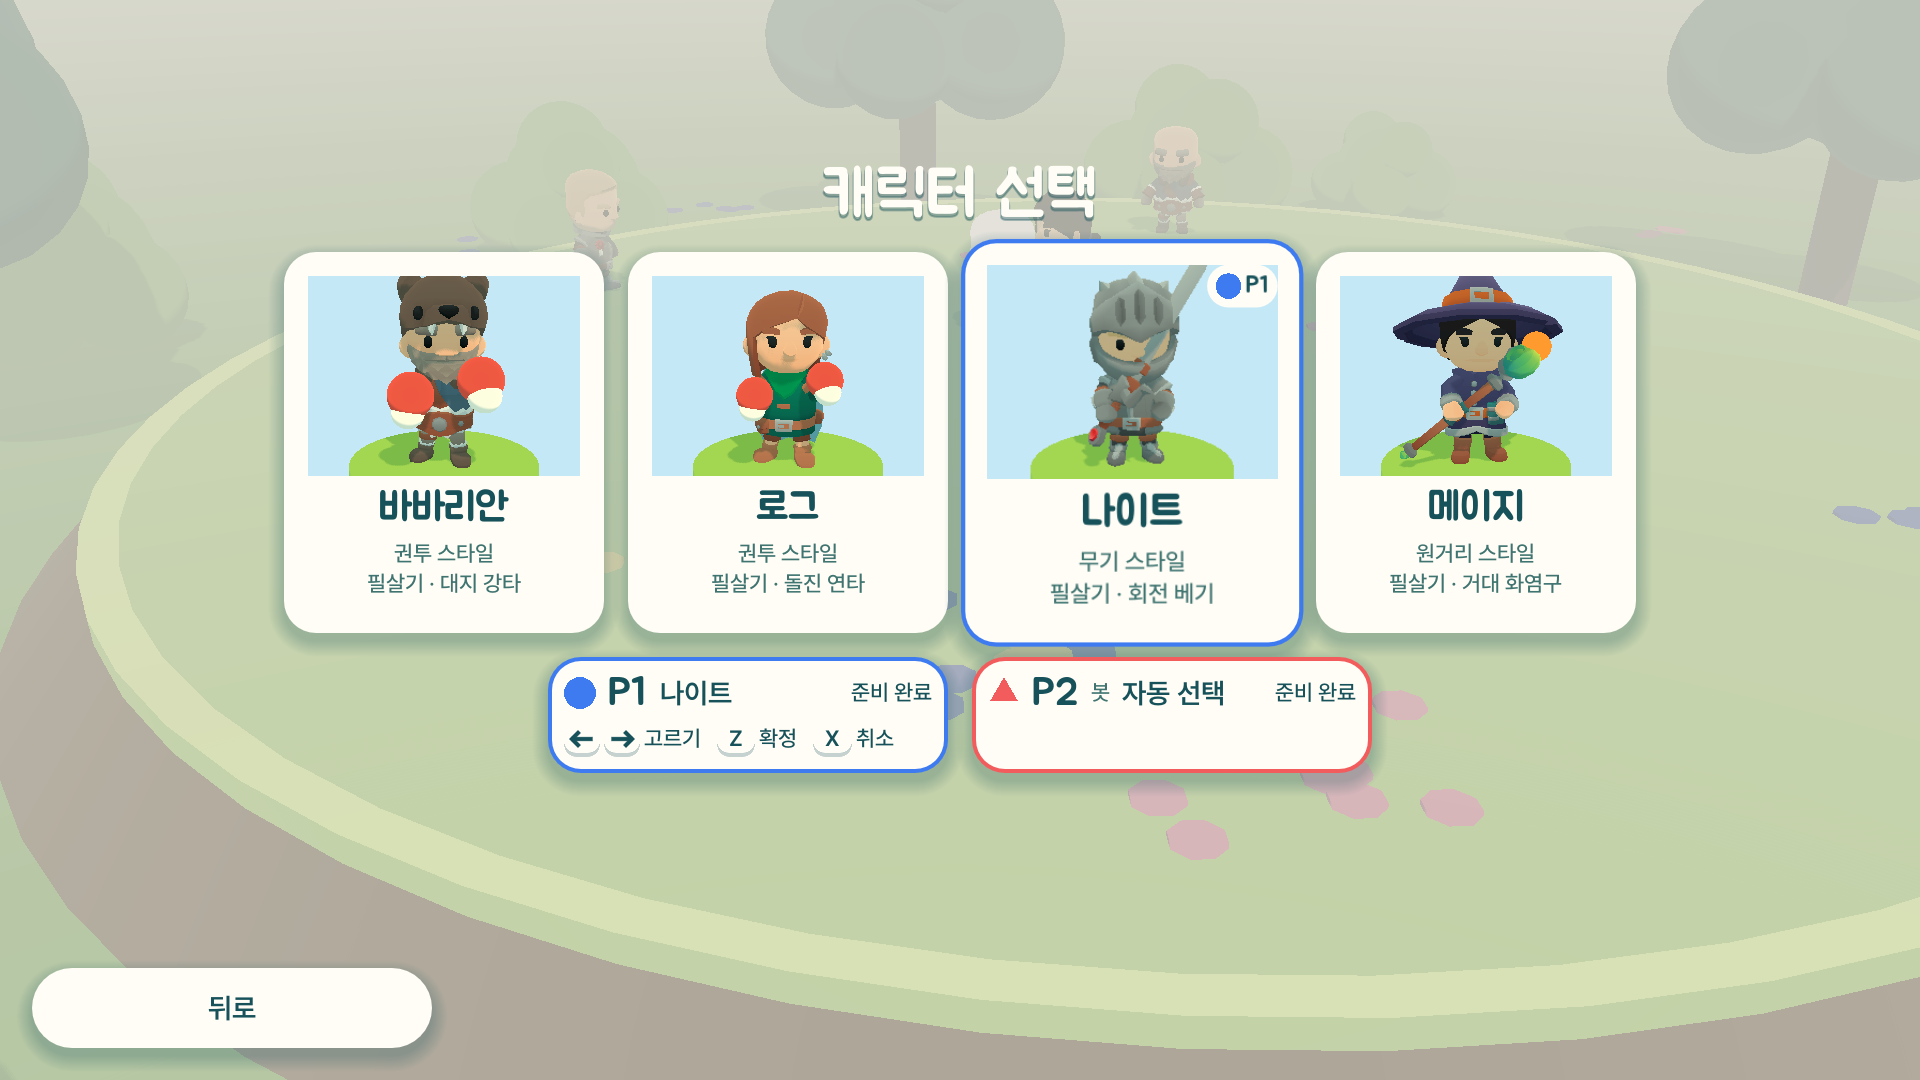
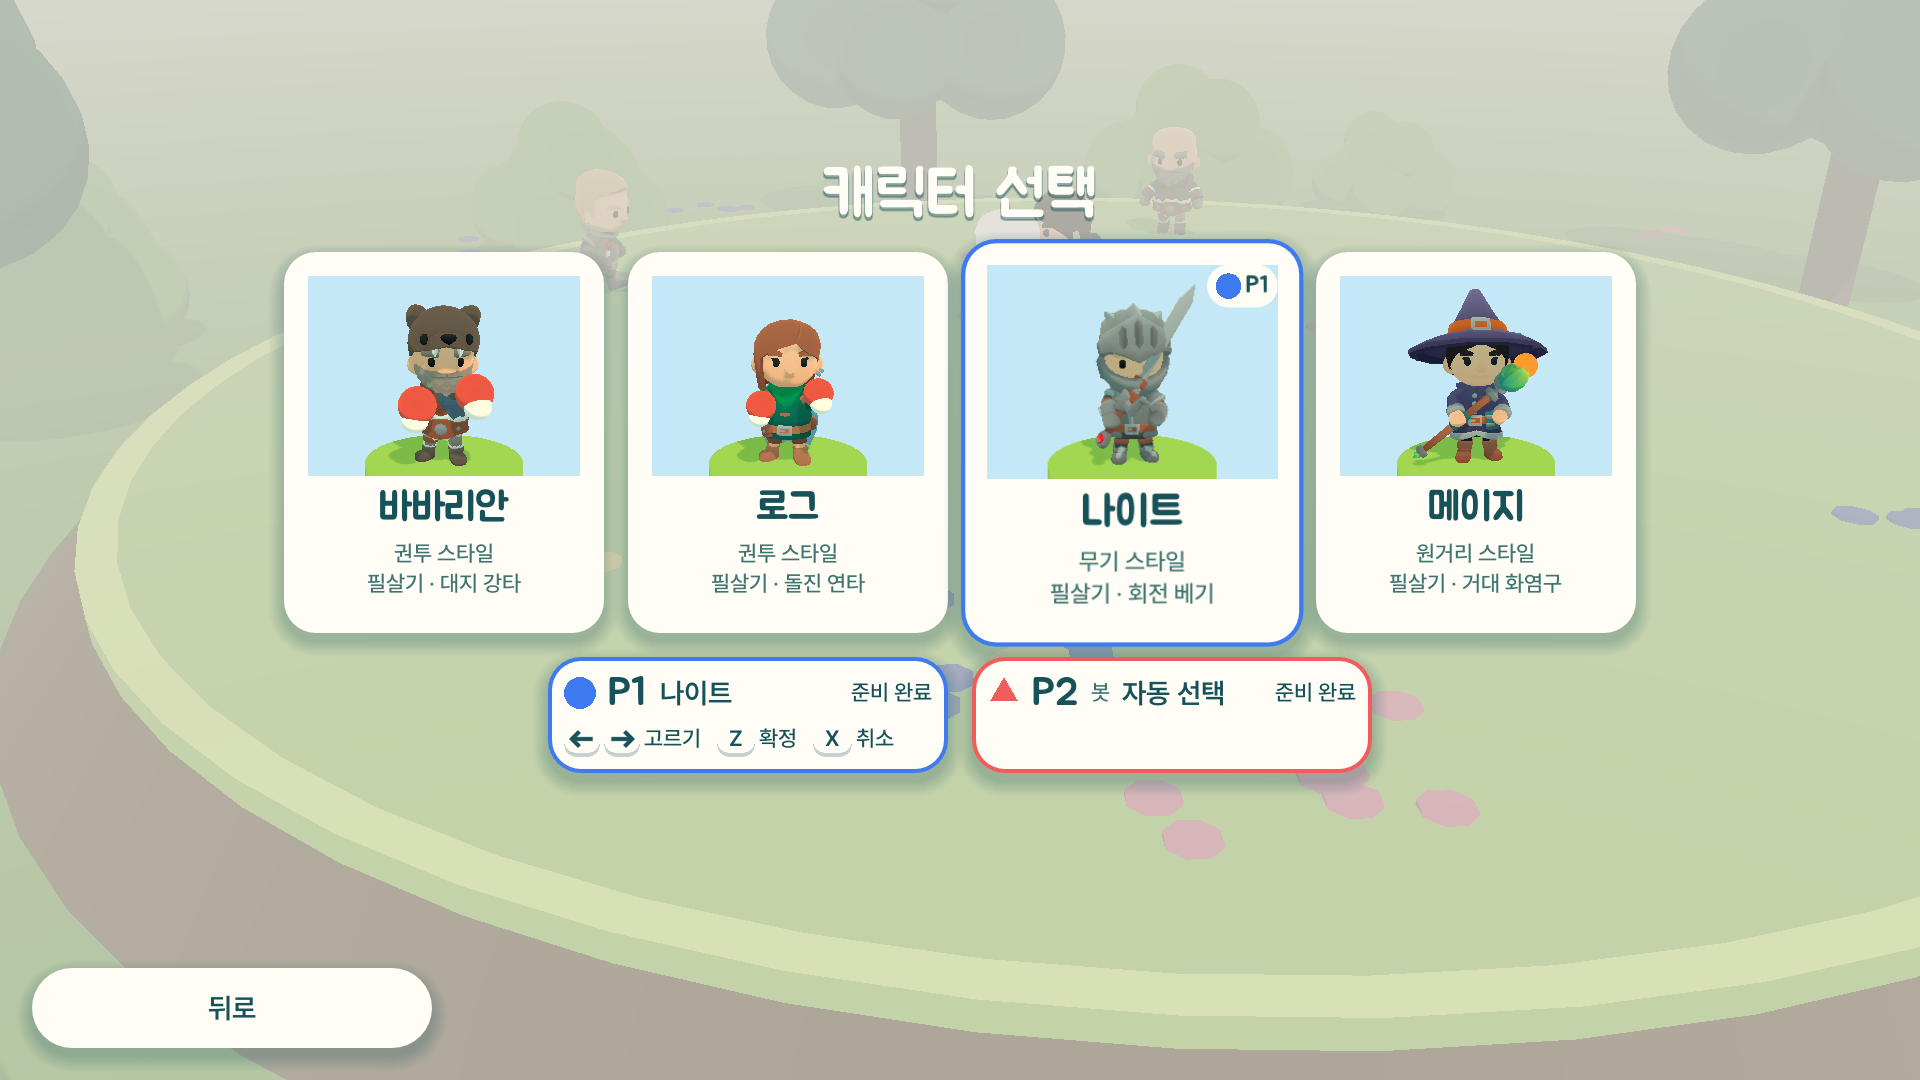
feat: fresh seed on rematch and full weapon in portraits
Rematch: the App hands the match scene its seed source (main.new_seed =
MatchSeed.fresh); from the second match on _start_match draws a new seed
(same line-up, new randomness, recorded in the new matches row). Without a
source (perf/debug scenes, main.tscn alone) rematches keep setup.seed.

Portraits: the full-body camera moves a little back and up so the Knight's
raised sword tip (and the Mage hat) stay in frame; the phone close-up is
unchanged. Test checks every hand-gear vertex is inside the camera frustum.
Recaptured char-select evidence (desktop + phone).

diff --git a/dev/active/phase-5/phase-5-context.md b/dev/active/phase-5/phase-5-context.md
@@ -73,7 +73,7 @@
 - 한계: 경기 카메라(위에서 내려봄)에선 Mage 구슬이 모자 챙에 일부 가려진다. 필살기·공격 모션 중에도 검·지팡이 기울기가 그대로라 스윙 궤적과 칼날 각도가 조금 어긋날 수 있음 — 실제 플레이 확인 후 조정
 
 ## P5 후속 (2026-10-01, `fix/p5-followups`)
-- 경기별 시드: `MatchSeed.fresh()`(앱 층, randomize된 RNG, 1..0x7FFFFFFF — `matches.seed` bigint·JSON 숫자에 정확히 들어감)를 모드 선택 때 `App.new_setup(mode)`가 쓴다(`App.new_seed` Callable, 테스트가 고정 가능). 같은 캐릭터를 골라도 봇 캐릭터(`CharacterPicks.for_bots(seed, …)`)와 경기 난수가 경기마다 달라짐. sim은 시드를 받기만 함(순수성 유지). 메뉴 배경·perf 장면·main.tscn 단독 실행·테스트는 고정 시드 그대로. 기록: `TelemetrySetup` → `matches.seed`(리플레이 헤더), `match_started`/`match_ended`는 `match_id`로 이어짐(이벤트 스키마 변경 없음). 재대결(`_start_match` 재호출)은 같은 setup·시드를 다시 씀
+- 경기별 시드: `MatchSeed.fresh()`(앱 층, randomize된 RNG, 1..0x7FFFFFFF — `matches.seed` bigint·JSON 숫자에 정확히 들어감)를 모드 선택 때 `App.new_setup(mode)`가 쓴다(`App.new_seed` Callable, 테스트가 고정 가능). 같은 캐릭터를 골라도 봇 캐릭터(`CharacterPicks.for_bots(seed, …)`)와 경기 난수가 경기마다 달라짐. sim은 시드를 받기만 함(순수성 유지). 메뉴 배경·perf 장면·main.tscn 단독 실행·테스트는 고정 시드 그대로. 기록: `TelemetrySetup` → `matches.seed`(리플레이 헤더), `match_started`/`match_ended`는 `match_id`로 이어짐(이벤트 스키마 변경 없음). 재대결: App이 경기 장면에 `new_seed`(=`MatchSeed.fresh`)를 넘기면 `main._start_match`가 두 번째 판부터 새 시드를 뽑음(같은 캐릭터 구성 유지, 새 `matches` 행에 새 시드). `new_seed`가 비어 있으면(perf·디버그 장면, main.tscn 단독) 시드 고정
 - 버그 수정(근본 원인): `InputFrame.quantize_axis`가 작은 음수 입력에 **-0.0**을 돌려줬는데 입력 로그(`InputCodec`)는 +0만 저장 → 라이브와 리플레이가 갈라짐(atan2 조준·방향, 해시). 시드가 다양해지며 Mage가 낀 봇 경기에서 드러남(고정 시드 36개 조합 중 7개 MISMATCH → 수정 후 0). 이제 0은 항상 +0.0. 골든 해시 갱신: `ARENA_HASHES`(log_bridge·mushroom_forest·foggy_forest)·`CHARACTER_HASHES`(4종) — 스크립트 입력에 -0.0이 섞여 있었음. 클래식·Phase 2 골든은 불변. 주의: 이미 올라간 경기 중 -0.0이 있던 것은 전과 같이 MISMATCH(로그에 부호가 없어 복구 불가)
 - 초상 장비: `CharacterPortrait`가 모델을 만든 뒤 `StyleGear.follow({character, style_of})`로 경기와 같은 장비·스타일 대기 자세(권투 `Unarmed_Pose`, 검·지팡이 `2H_Melee_Idle`)를 입히고 한 번 포즈(정지 초상도 자세 반영). `gear()`·`animator()` 접근자
-- 증거 재캡처: `evidence/char-select-{1p-browse,1p-ready,2p}{,-phone}.png`(데스크톱 1920×1080, 폰 1624×750 · 배율 1.6). 한계: 데스크톱 구도에서 Knight 검 끝이 초상 위로 살짝 잘림
+- 증거 재캡처: `evidence/char-select-{1p-browse,1p-ready,2p}{,-phone}.png`(데스크톱 1920×1080, 폰 1624×750 · 배율 1.6). 전신 구도 카메라를 조금 뒤·위로(`CAMERA_FROM` (0.85,1.35,3.6), `CAMERA_AT` y 0.95) 옮겨 Knight 검 끝·Mage 모자까지 들어옴(테스트: 손 장비 메시 정점 전부가 카메라 절두체 안). 폰 close-up 구도는 그대로
